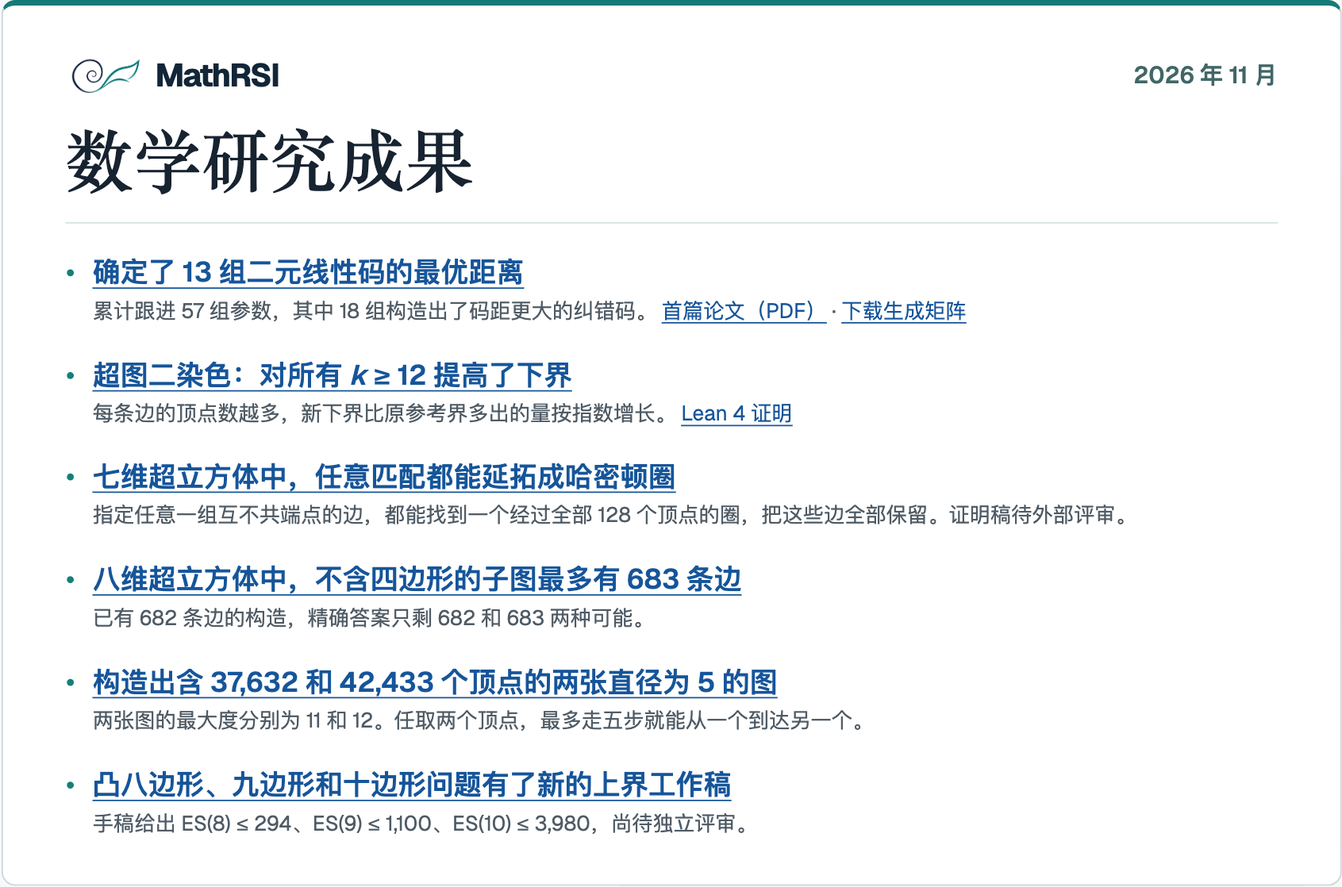
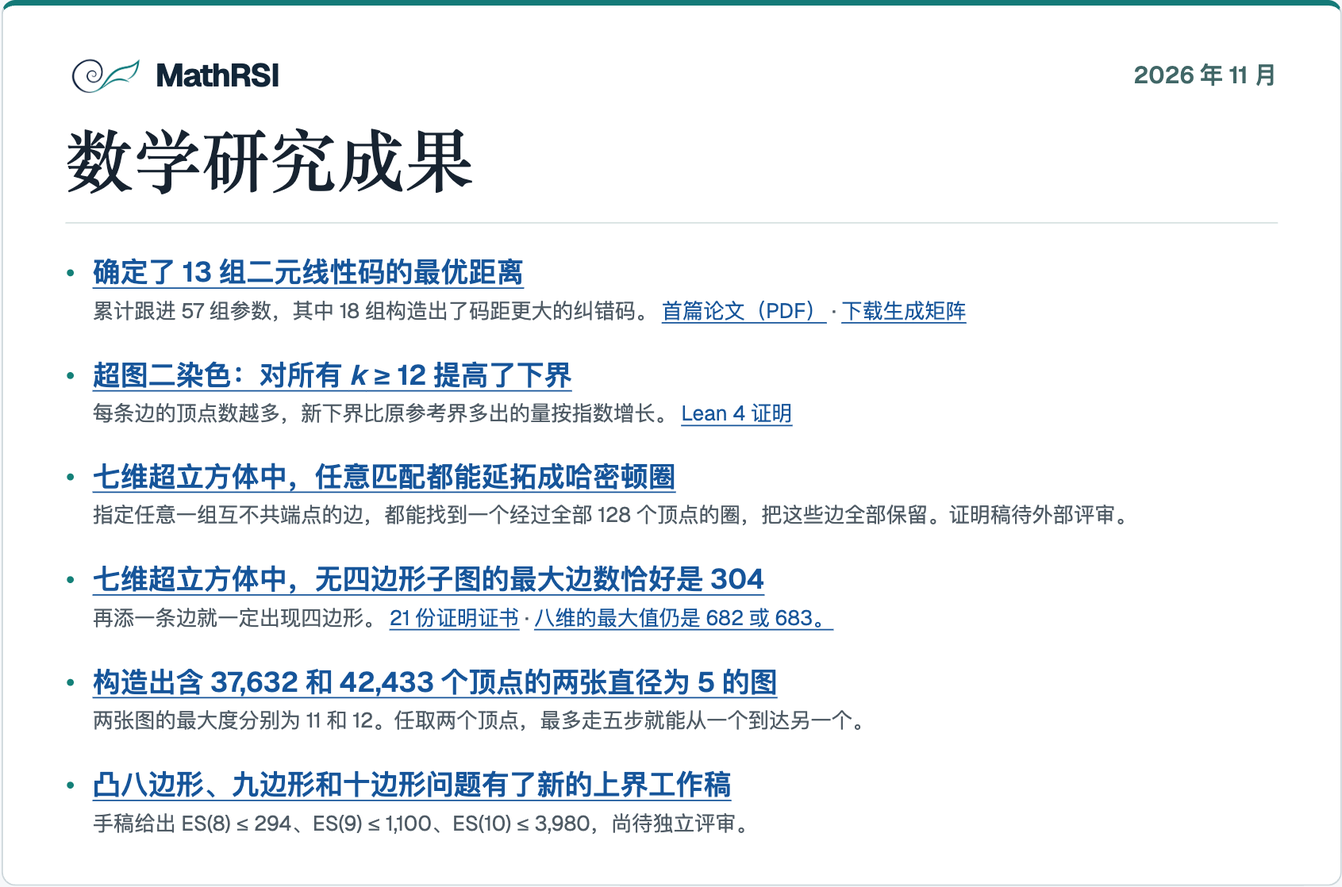
Link the seven-cube extremal preprint and public proof certificates

Changed region(s): [[0.0615, 0.6386, 0.615, 0.7299]]

diff --git a/development/homepage-redesign-20261105/site/index.html b/development/homepage-redesign-20261105/site/index.html
@@ -115,6 +115,7 @@
           <span>The working proof now extends every matching in the seven-dimensional cube to a Hamilton cycle. The Happy Ending manuscripts give ES(8) ≤ 294, ES(9) ≤ 1,100 and ES(10) ≤ 3,980.</span></li>
         <li><div class="news-meta"><a href="https://github.com/lisresearchgroup/math-rsi/releases/tag/v6">v6</a><time datetime="2026-11-20">2026-11-20</time></div>
           <span>The Q₇ matching threshold fell from 57 edges to 56. For square-free subgraphs of Q₈, the maximum number of edges was narrowed to 682 or 683.</span></li>
+        <li><div class="news-meta"><span>Preprint</span><time datetime="2026-11-20">2026-11-20</time></div><span><a href="https://arxiv.org/abs/2611.27284" lang="en" data-no-i18n>The Four-Cycle Extremal Number of the Seven-Cube</a> · <span>The exact maximum in Q₇ is 304 edges.</span></span></li>
       </ul>
       <details>
         <summary>Earlier versions (v1–v5)</summary>
@@ -202,7 +203,7 @@
         <details><summary>Scope &amp; verification</summary><p>Both D5 final graphs regenerate deterministically. D12 preserves the 42,402-vertex source and checks all 31 new vertices; D11 takes core–core distances from the H9 theorem under its stated σ/π identification and checks all 161 peripheral and new vertices. End-to-end Lean proofs and independent refereeing for these D5 graphs remain open. On the Comellas table checked 2026-11-16, (10,4) is 2,612 and (16,4) is 16,848, above our earlier constructions of 2,567 and 16,416.</p></details>
       </article>
 
-      <article class="card" style="--c:var(--e86)">
+      <article class="card" id="erdos-86" style="--c:var(--e86)">
         <div class="viz" data-viz="e86" role="img" aria-label="Four-dimensional cube with one square highlighted, above a number line showing one half, 0.59124 and 0.60318"></div>
         <p class="vcap">Q₄ with one square (C₄) · density scale</p>
         <p class="r-problem"><b>Erdős Problem 86</b><span>Square-free hypercube subgraphs</span></p>
@@ -210,7 +211,7 @@
         <div class="r-fig">
           <p class="r-kicker">Subgraphs of <span class="math" data-tex="Q_n"><span class="katex"><span class="katex-mathml"><math xmlns="http://www.w3.org/1998/Math/MathML"><semantics><mrow><msub><mi>Q</mi><mi>n</mi></msub></mrow><annotation encoding="application/x-tex">Q_n</annotation></semantics></math></span><span class="katex-html" aria-hidden="true"><span class="base"><span class="strut" style="height:0.8778em;vertical-align:-0.1944em;"></span><span class="mord"><span class="mord mathnormal">Q</span><span class="msupsub"><span class="vlist-t vlist-t2"><span class="vlist-r"><span class="vlist" style="height:0.1514em;"><span style="top:-2.55em;margin-left:0em;margin-right:0.05em;"><span class="pstrut" style="height:2.7em;"></span><span class="sizing reset-size6 size3 mtight"><span class="mord mathnormal mtight">n</span></span></span></span><span class="vlist-s"></span></span><span class="vlist-r"><span class="vlist" style="height:0.15em;"><span></span></span></span></span></span></span></span></span></span></span> without <span class="math" data-tex="C_4"><span class="katex"><span class="katex-mathml"><math xmlns="http://www.w3.org/1998/Math/MathML"><semantics><mrow><msub><mi>C</mi><mn>4</mn></msub></mrow><annotation encoding="application/x-tex">C_4</annotation></semantics></math></span><span class="katex-html" aria-hidden="true"><span class="base"><span class="strut" style="height:0.8333em;vertical-align:-0.15em;"></span><span class="mord"><span class="mord mathnormal" style="margin-right:0.07153em;">C</span><span class="msupsub"><span class="vlist-t vlist-t2"><span class="vlist-r"><span class="vlist" style="height:0.3011em;"><span style="top:-2.55em;margin-left:-0.0715em;margin-right:0.05em;"><span class="pstrut" style="height:2.7em;"></span><span class="sizing reset-size6 size3 mtight"><span class="mord mtight">4</span></span></span></span><span class="vlist-s"></span></span><span class="vlist-r"><span class="vlist" style="height:0.15em;"><span></span></span></span></span></span></span></span></span></span></span>: per-setting results</p>
           <ul class="e86-slist">
-            <li><span>Q₇ (n = 7)</span><b class="r-n">304</b><span class="e86-scope">304-edge construction verified; 304 upper bound as reported in the source package, not re-verified in this pass.</span></li>
+            <li><span>Q₇ (n = 7)</span><b class="r-n">304</b><span class="e86-scope">304 edges are possible. Every 305-edge subgraph contains a four-cycle. <a href="https://arxiv.org/abs/2611.27284">Q₇ paper on arXiv ↗</a></span></li>
             <li><span>Q₈ (n = 8)</span><b class="r-n">682–683</b><span class="e86-scope">Four 682-edge constructions + Theorem B (refereeing pending); ≤682 open.</span></li>
             <li><span>Q∞ (density)</span><b class="r-n">≤ 0.5912405943</b><span class="e86-scope">T3 proved · T4 ≤ 0.5912405942 · limit 1/2 open.</span></li>
           </ul>
@@ -218,7 +219,7 @@
         <p class="r-why"><b>Why it matters</b> Tighter ceilings in Q₇, Q₈ and arbitrary dimension Qₙ narrow how many cube edges can avoid a four-cycle.</p>
         <p class="r-how"><b>Method</b> Couple local flags, degree potentials and primal–dual coevolution on the same graph.</p>
         <div class="meta"><span class="status">Computer-assisted bounds · no Lean</span><a href="erdos-86-latest.html">Results &amp; methods ↗<span class="source-language" data-no-i18n>EN + 中文</span></a><a href="../../../plugins/hypercube-extremal/archive/source/START_HERE.html">Historical Q₄ ↗<span class="source-language" data-no-i18n>中文</span></a><button class="trace" type="button" data-case="e86">Trace in evolution ↑</button></div>
-        <details><summary>Scope &amp; verification</summary><p>Q₇: two explicit 304-edge C₄-free subgraphs verified in-repo; 304 upper bound as reported in the source package, not re-verified in this pass (21 raw .cnf/.drup traces omitted upstream). Q₈: four 682-edge constructions and C++17 13,150,453-completion replay verified; Theorem B uses 83 active cuts and 25 imported Q₆ DRAT certificates (reviewed in the same model family; independent refereeing pending), and ex(Q₈, C₄) ≤ 682 remains open. Q∞: T3 = 681653995482306581 / 1152921504606846976 ≤ 0.5912405943 and T4 = 9701859764505653085708308080340303 / 16409326186106551516455239680000000 ≤ 0.5912405942 (via a 5-line hypergeometric tower for all n ≥ 1024), both proved and rechecked in 128-bit C++20; exploratory 0.5907 is an approximate fit (residual ≈ 3.9 × 10⁻⁴), and an earlier 0.5899 claim was refuted and withdrawn.</p></details>
+        <details><summary>Scope &amp; verification</summary><p><span>The MathRSI repository checks two 304-edge constructions. The authors report checking all 21 refutations for the upper bound in the paper’s companion repository.</span> <span>Q₈: four 682-edge constructions and C++17 13,150,453-completion replay verified; Theorem B uses 83 active cuts and 25 imported Q₆ DRAT certificates (reviewed in the same model family; independent refereeing pending), and ex(Q₈, C₄) ≤ 682 remains open. Q∞: T3 = 681653995482306581 / 1152921504606846976 ≤ 0.5912405943 and T4 = 9701859764505653085708308080340303 / 16409326186106551516455239680000000 ≤ 0.5912405942 (via a 5-line hypergeometric tower for all n ≥ 1024), both proved and rechecked in 128-bit C++20; exploratory 0.5907 is an approximate fit (residual ≈ 3.9 × 10⁻⁴), and an earlier 0.5899 claim was refuted and withdrawn.</span></p></details>
       </article>
 
       <article class="card" style="--c:var(--q6)">

diff --git a/development/homepage-redesign-20261105/site/zh-CN.js b/development/homepage-redesign-20261105/site/zh-CN.js
@@ -1,5 +1,18 @@
 /* Chinese homepage copy, drafted by Gemini 4 and checked against the English source. */
 window.MATHRSI_ZH = {
+  "304 edges are possible. Every 305-edge subgraph contains a four-cycle.": "304 条边可以做到。只要有 305 条边，就一定包含一个四边形。",
+  "Q₇ paper on arXiv ↗": "Q₇ 论文 · arXiv ↗",
+  "Q₈: four 682-edge constructions and C++17 13,150,453-completion replay verified; Theorem B uses 83 active cuts and 25 imported Q₆ DRAT certificates (reviewed in the same model family; independent refereeing pending), and ex(Q₈, C₄) ≤ 682 remains open. Q∞: T3 = 681653995482306581 / 1152921504606846976 ≤ 0.5912405943 and T4 = 9701859764505653085708308080340303 / 16409326186106551516455239680000000 ≤ 0.5912405942 (via a 5-line hypergeometric tower for all n ≥ 1024), both proved and rechecked in 128-bit C++20; exploratory 0.5907 is an approximate fit (residual ≈ 3.9 × 10⁻⁴), and an earlier 0.5899 claim was refuted and withdrawn.": "Q₈：四份 682 边构造与 C++17 全部 13,150,453 个补全重放已验证；定理 B 使用 83 条活跃割与 25 份 Q₆ DRAT 证书（经同系模型审阅，待独立审稿），ex(Q₈, C₄) ≤ 682 仍开放。Q∞：T3 = 681653995482306581 / 1152921504606846976 ≤ 0.5912405943 与 T4 = 9701859764505653085708308080340303 / 16409326186106551516455239680000000 ≤ 0.5912405942（经对一切 n ≥ 1024 成立的五行超几何塔）均已证并经 128 位 C++20 复核；探索值 0.5907 为近似拟合（残差约 3.9 × 10⁻⁴），早期 0.5899 结论已反驳撤回。",
+  "The MathRSI repository checks two 304-edge constructions. The authors report checking all 21 refutations for the upper bound in the paper’s companion repository.": "MathRSI 仓库核验了两份 304 边构造。论文作者在配套仓库中记录了对上界所用全部 21 份反驳证书的核验。",
+  "Preprint": "预印本",
+  "The exact maximum in Q₇ is 304 edges.": "七维超立方体中，无四边形子图的最大边数为 304。",
+  "Erdős Problem 86 results by setting: exactly 304 edges in Q7 (arXiv:2611.27284), Q8 narrowed to 682–683, and asymptotic C4-free density lowered from 0.60318 to at most 0.5912405943 (T3) and 0.5912405942 (T4).": "Erdős 第 86 题各参数结果：Q₇ 精确为 304 条边（arXiv:2611.27284），Q₈ 为 682 至 683，渐近密度上界由 0.60318 降至 0.5912405943（T3）及 0.5912405942（T4）。",
+  "Results · Q₇ exactly 304, Q₈ 682–683 and asymptotic Q∞ ≤ 0.5912405943": "成果 · Q₇ 精确为 304，Q₈ 为 682–683，渐近密度 Q∞ ≤ 0.5912405943",
+  "exact maximum": "精确最大值",
+  "Minamoto’s construction attains 304 edges. Zhou and coauthors rule out 305 using three computational lemmas on the six-cube.": "Minamoto 的构造保留了 304 条边。论文作者用六维超立方体上的三个计算引理排除了 305 条边的可能。",
+  "arXiv preprint · 20 November 2026": "arXiv 预印本 · 2026 年 11 月 20 日",
+  "Verification code": "核验代码",
+  "21 proof certificates": "21 份证明证书",
   "Launch the mathematics workbench with Git, Python 3.10+, pipx and a signed-in agent CLI.": "准备好 Git、Python 3.10+、pipx 和已登录的 Agent 客户端，在终端启动数学工作台。",
   "Choose your problem directory and the cloned math-rsi folder in the wizard. Next time, just run mathrsi.": "在向导中分别选择课题目录和克隆的 math-rsi 文件夹。以后启动，只需输入 mathrsi。",
   "To work directly in the clone, enter": "也可以在客户端打开克隆的仓库，输入",

diff --git a/development/homepage-redesign-20261105/site/erdos-86-latest.html b/development/homepage-redesign-20261105/site/erdos-86-latest.html
@@ -17,17 +17,19 @@
 <table class="dd-setting-table e86-setting-table">
 <thead><tr><th scope="col">Setting</th><th scope="col">Bound</th><th scope="col">Verification scope</th></tr></thead>
 <tbody>
-<tr><th scope="row">Q₇ (n = 7)</th><td><b>304</b></td><td>304-edge construction verified; 304 upper bound as reported in the source package, not re-verified in this pass.</td></tr>
+<tr><th scope="row">Q₇ (n = 7)</th><td><b>304</b></td><td>304 edges are possible. Every 305-edge subgraph contains a four-cycle.</td></tr>
 <tr><th scope="row">Q₈ (n = 8)</th><td><b>682 ≤ ex(Q₈, C₄) ≤ 683</b></td><td>Four 682-edge constructions &amp; C++17 Q₄ replay verified; Theorem B reviewed in the same model family (independent refereeing pending); ex(Q₈, C₄) ≤ 682 open.</td></tr>
 <tr><th scope="row">Q∞ (asymptotic)</th><td><b>≤ 0.5912405943</b></td><td>T3 (≤ 0.5912405943) and T4 with m = 1024 degree potential (≤ 0.5912405942) proved and rechecked in 128-bit C++20. Conjecture 1/2 open.</td></tr>
 </tbody>
 </table>
 
 <div class="dd-latest-results e86-cards">
-<article>
+<article id="q7-paper">
 <h2>Q₇ · 128 vertices</h2>
 <p class="dd-latest-order">304</p>
-<p>Two explicit 304-edge C₄-free subgraphs (A.edges, B.edges) are checked directly in-repo (ex(Q₇, C₄) ≥ 304); 304 upper bound as reported in the source package, not re-verified in this pass.</p>
+<p>Minamoto’s construction attains 304 edges. Zhou and coauthors rule out 305 using three computational lemmas on the six-cube.</p>
+<p><a href="https://arxiv.org/abs/2611.27284" lang="en" data-no-i18n><cite>The Four-Cycle Extremal Number of the Seven-Cube</cite></a><br><span lang="en" data-no-i18n>Zheli Zhou, Haitong Ma, Ruofeng Yang, Tianzhi Ren, Kuan Yang and Shuai Li</span><br><span>arXiv preprint · 20 November 2026</span></p>
+<p><a href="https://github.com/zhelizhou/hypercube-c4/tree/13c4ac5b2269383d36e5fb0da303f0a5cd2d1b03/q7">Verification code</a> · <a href="https://github.com/zhelizhou/hypercube-c4/releases/tag/q7-artifacts-v0.1">21 proof certificates</a></p>
 </article>
 <article>
 <h2>Q₈ · 256 vertices</h2>

diff --git a/development/homepage-redesign-20261105/site/result-visuals.js b/development/homepage-redesign-20261105/site/result-visuals.js
@@ -132,9 +132,9 @@
 
     e86: {
       resultLabel:
-        'Erdős Problem 86 results by setting: Q7 construction 304 verified (304 upper bound source-reported), Q8 narrowed to 682–683, and asymptotic C4-free density lowered from 0.60318 to at most 0.5912405943 (T3) and 0.5912405942 (T4).',
+        'Erdős Problem 86 results by setting: exactly 304 edges in Q7 (arXiv:2611.27284), Q8 narrowed to 682–683, and asymptotic C4-free density lowered from 0.60318 to at most 0.5912405943 (T3) and 0.5912405942 (T4).',
       resultCap:
-        'Results · Q₇ 304 (≤ source), Q₈ 682–683 and asymptotic Q∞ ≤ 0.5912405943',
+        'Results · Q₇ exactly 304, Q₈ 682–683 and asymptotic Q∞ ≤ 0.5912405943',
       links: [
         { label: 'Results by setting ↗', href: 'erdos-86-latest.html', sourceLanguage: 'EN + 中文' },
         { label: 'Historical Q₄ ↗', href: '../../../plugins/hypercube-extremal/archive/source/START_HERE.html', sourceLanguage: '中文', sub: true }
@@ -159,8 +159,8 @@
 
           <rect x="22" y="36" width="102" height="68" rx="7" fill="#F8F9FB" stroke="var(--hair)"/>
           <text class="rv-sub" x="73" y="52" text-anchor="middle">Q₇ (n = 7)</text>
-          <text x="73" y="75" text-anchor="middle" font-size="17.5" font-weight="680" class="rv-accent">≥ 304</text>
-          <text class="rv-sub" x="73" y="94" text-anchor="middle">≤304 in source</text>
+          <text x="73" y="75" text-anchor="middle" font-size="17.5" font-weight="680" class="rv-accent">304</text>
+          <text class="rv-sub" x="73" y="94" text-anchor="middle">exact maximum</text>
 
           <rect x="130" y="36" width="108" height="68" rx="7" fill="#F8F9FB" stroke="var(--hair)"/>
           <text class="rv-sub" x="184" y="52" text-anchor="middle">Q₈ (n = 8)</text>

diff --git a/development/homepage-redesign-20261105/site/november-2026-zh.html b/development/homepage-redesign-20261105/site/november-2026-zh.html
@@ -26,8 +26,8 @@
 <small>每条边的顶点数越多，新下界比原参考界多出的量按指数增长。 <a href="../../../case-studies/property-b/readers/PROPERTY_B_GENERAL_LEAN.html">Lean 4 证明</a></small></li>
 <li><a href="q7.html">七维超立方体中，任意匹配都能延拓成哈密顿圈</a>
 <small>指定任意一组互不共端点的边，都能找到一个经过全部 128 个顶点的圈，把这些边全部保留。证明稿待外部评审。</small></li>
-<li><a href="erdos-86-latest.html">八维超立方体中，不含四边形的子图最多有 683 条边</a>
-<small>已有 682 条边的构造，精确答案只剩 682 和 683 两种可能。</small></li>
+<li><a href="https://arxiv.org/abs/2611.27284">七维超立方体中，无四边形子图的最大边数恰好是 304</a>
+<small>再添一条边就一定出现四边形。 <a href="https://github.com/zhelizhou/hypercube-c4/releases/tag/q7-artifacts-v0.1">21 份证明证书</a> · <a href="erdos-86-latest.html">八维的最大值仍是 682 或 683。</a></small></li>
 <li><a href="dd-latest.html">构造出含 37,632 和 42,433 个顶点的两张直径为 5 的图</a>
 <small>两张图的最大度分别为 11 和 12。任取两个顶点，最多走五步就能从一个到达另一个。</small></li>
 <li><a href="happy-ending-latest.html">凸八边形、九边形和十边形问题有了新的上界工作稿</a>

diff --git a/development/homepage-redesign-20261105/site/november-2026.html b/development/homepage-redesign-20261105/site/november-2026.html
@@ -26,8 +26,8 @@
 <small>The additive gain grows exponentially with the edge size. <a href="../../../case-studies/property-b/readers/PROPERTY_B_GENERAL_LEAN.html">Lean 4 proof</a></small></li>
 <li><a href="q7.html">Every matching in the 7-cube extends to a Hamilton cycle</a>
 <small>A cycle through all 128 vertices keeps every prescribed edge. Author proof awaiting external review.</small></li>
-<li><a href="erdos-86-latest.html">A square-free subgraph of the 8-cube has at most 683 edges</a>
-<small>A 682-edge construction leaves just two possible values for the maximum.</small></li>
+<li><a href="https://arxiv.org/abs/2611.27284">A square-free subgraph of the 7-cube has at most 304 edges</a>
+<small>Every 305-edge subgraph contains a four-cycle. <a href="https://github.com/zhelizhou/hypercube-c4/releases/tag/q7-artifacts-v0.1">21 proof certificates</a> · <a href="erdos-86-latest.html">In the 8-cube the maximum is 682 or 683.</a></small></li>
 <li><a href="dd-latest.html">Diameter-five graphs on 37,632 and 42,433 vertices</a>
 <small>Any pair of vertices is at most five steps apart, with maximum degrees 11 and 12, respectively.</small></li>
 <li><a href="happy-ending-latest.html">New working upper bounds for convex 8-, 9- and 10-gons</a>

diff --git a/case-studies/erdos-86/README.md b/case-studies/erdos-86/README.md
@@ -8,7 +8,7 @@ Erdős Problem 86 asks for the maximum number of edges $\mathrm{ex}(Q_n, C_4)$ i
 
 | Setting | Bound | Verification and archive scope |
 | --- | --- | --- |
-| **$Q_7$ ($n = 7$)** | **`304`** | **304-edge construction verified; 304 upper bound as reported in the source package, not re-verified in this pass.** Two explicit 128-vertex, 304-edge $C_4$-free subgraphs (`A.edges`, `B.edges`) and the 2-hole orbit script `six_profiles_independent_audit.py` are verified in-repo ($\mathrm{ex}(Q_7, C_4) \ge 304$; constructions alone do not prove an upper bound). The upstream reduction manuscript (`ASTRA_主证明合订.md`) and certificate manifest are preserved in [`archive/q7-304/`](../../plugins/hypercube-extremal/archive/q7-304/README.md), while the 21 raw `.cnf`/`.drup` traces were already omitted in the upstream 2026-10-31 compilation. |
+| **$Q_7$ ($n = 7$)** | **`304`** | [Zhou et al., arXiv:2611.27284](https://arxiv.org/abs/2611.27284) exclude 305 edges, matching Minamoto’s 304-edge construction. The [companion release](https://github.com/zhelizhou/hypercube-c4/releases/tag/q7-artifacts-v0.1) supplies all 21 refutations. Two explicit 128-vertex, 304-edge $C_4$-free subgraphs (`A.edges`, `B.edges`) and the 2-hole orbit script `six_profiles_independent_audit.py` are verified in-repo ($\mathrm{ex}(Q_7, C_4) \ge 304$; constructions alone do not prove an upper bound). The upstream reduction manuscript (`ASTRA_主证明合订.md`) and certificate manifest are preserved in [`archive/q7-304/`](../../plugins/hypercube-extremal/archive/q7-304/README.md), while the 21 raw `.cnf`/`.drup` traces were already omitted in the upstream 2026-10-31 compilation. |
 | **$Q_8$ ($n = 8$)** | **`682 ≤ ex(Q₈, C₄) ≤ 683`** | Four explicit 682-edge $C_4$-free subgraphs (`seed1..4.edges`) are verified in-repo ($\mathrm{ex}(Q_8, C_4) \ge 682$). Theorem B rules out 684 edges via a same-subgraph 3-measure pullback over 83 active inequalities and 25 $Q_6$ subcube imports (`PASS · same-family · provisional` whole-proof audit; exact rational safety margin `782808475930428709 / 4209067950080000000000 > 0` and C++17 complete enumeration of all `13,150,453` marked $Q_4$ completions verified in-repo in [`archive/q8-683/`](../../plugins/hypercube-extremal/archive/q8-683/README.md)). Primary goal $\mathrm{ex}(Q_8, C_4) \le 682$ remains **OPEN**. |
 | **$Q_\infty$ (asymptotic)** | **`T3 ≤ 0.5912405943`**<br>**`T4 ≤ 0.5912405942`** | Unconditional bounds improving the `v3` $Q_4$ Gram bound (`< 0.59155154`) and the `0.60318` reference: **T3** $= 681653995482306581 / 1152921504606846976 \approx 0.5912405942282728\ldots \le 0.5912405943$ ($Q_4$ flag algebra + 35 triangle-free COP cuts + 29 cubic terms) and **T4** $= 9701859764505653085708308080340303 / 16409326186106551516455239680000000 \approx 0.5912405941884453\ldots \le 0.5912405942$ (adding the $m=1024$ generalized hypergeometric degree potential). Both C++20 128-bit verifiers recompile and pass over all `3,212,821` $Q_4$ orbits in [`archive/asymptotic-05912/`](../../plugins/hypercube-extremal/archive/asymptotic-05912/README.md). Conjecture $\pi_\square(C_4) = 1/2$ remains **OPEN**. |
 

diff --git a/README.md b/README.md
@@ -72,7 +72,7 @@ Research across six domains supplies results and reusable methods. [Public homep
 - **Property B:** bounds for $k=5,\ldots,12$ and exponentially growing additive gains for every $k\ge12$. [Results & proof scope](case-studies/property-b/README.md)
 - **Error-correcting codes.** Download generators for 18 improved lower bounds. Of 37 supported upper-bound updates, 13 meet the distance of a known code and settle the optimum. Two further entries await final acceptance in the source project. [Codes and matrices](https://lisresearchgroup.github.io/math-rsi/ecc-intervals.html#lower) · [Upper bounds and proofs](https://lisresearchgroup.github.io/math-rsi/ecc-intervals.html#upper)
 - **Degree–diameter:** our constructions reach 2,567 vertices at $(10,4)$, 37,632 at $(11,5)$, 42,433 at $(12,5)$ and 16,416 at $(16,4)$. [Constructions, dated comparisons & scope](case-studies/degree-diameter/README.md)
-- **Erdős Problem 86:** $Q_7$ at $304$ (304-edge construction verified; 304 upper bound as reported in the source package, not re-verified in this pass), $682\le\mathrm{ex}(Q_8,C_4)\le683$, and asymptotic density improved from $0.60318$ to $\le0.5912405943$ (`T3`) / $\le0.5912405942$ (`T4`). [Results & verification scope](case-studies/erdos-86/README.md)
+- **Erdős Problem 86:** a square-free subgraph of $Q_7$ has [at most 304 edges, and the bound is attained](https://arxiv.org/abs/2611.27284), $682\le\mathrm{ex}(Q_8,C_4)\le683$, and asymptotic density improved from $0.60318$ to $\le0.5912405943$ (`T3`) / $\le0.5912405942$ (`T4`). [Results & verification scope](case-studies/erdos-86/README.md)
 - **Ruskey–Savage:** a complete author working proof covers every matching in $Q_7$, including empty and perfect matchings; the universal $Q_6$ result is retained. External peer review pending; no Lean. [Proof, local checks & release history](case-studies/ruskey-savage-q7/README.md)
 - **Happy Ending & $N(m,r,s)$:** new same-input sector-deficit manuscripts give working planar corollaries $\mathrm{ES}(7)\le77$, $\mathrm{ES}(8)\le294$, $\mathrm{ES}(9)\le1100$ and $\mathrm{ES}(10)\le3980$; independent mathematical review remains incomplete. Earlier replayable finite certificates retain their separate scope and provenance. [Current results, evidence & replay](plugins/happy-ending/archive/nmrs-20261120/HANDOFF.md) · [Case guide](case-studies/happy-ending/README.md)
 

diff --git a/README.zh-CN.md b/README.zh-CN.md
@@ -71,7 +71,7 @@ mathrsi
 - **Property B：** $k=5,\ldots,12$ 的具体下界，以及所有 $k\ge12$ 随参数指数增长的加性增益。[成果与证明范围](case-studies/property-b/README.md)
 - **纠错码。** 18 组参数的生成矩阵可下载。在 37 项有证据支持的上界改进中，13 项与已有码的距离相等，确定了最优值。另有两项等待原项目最终验收。 [查看构造与矩阵](https://lisresearchgroup.github.io/math-rsi/ecc-intervals.html#lower) · [查看上界与证明](https://lisresearchgroup.github.io/math-rsi/ecc-intervals.html#upper)
 - **Degree–Diameter：** 四组展示参数的构造： $(10,4)$ 为 2,567 点； $(11,5)$ 为 37,632 点； $(12,5)$ 为 42,433 点； $(16,4)$ 为 16,416 点。[构造、日期比较与核验范围](case-studies/degree-diameter/README.zh-CN.md)
-- **Erdős 第 86 题：** $Q_7$ 为 $304$（304 边构造已验证；304 上界按原包报告，本次未复验），$682\le\mathrm{ex}(Q_8,C_4)\le683$，渐近密度上界从 $0.60318$ 推进至 $\le0.5912405943$（`T3`）／$\le0.5912405942$（`T4`）。[结果与核验范围](case-studies/erdos-86/README.md)
+- **Erdős 第 86 题：** 七维超立方体的无四边形子图最多有 [304 条边](https://arxiv.org/abs/2611.27284)，$682\le\mathrm{ex}(Q_8,C_4)\le683$，渐近密度上界从 $0.60318$ 推进至 $\le0.5912405943$（`T3`）／$\le0.5912405942$（`T4`）。[结果与核验范围](case-studies/erdos-86/README.md)
 - **Ruskey–Savage：** 完整作者工作证明覆盖 $Q_7$ 的任意匹配（包括空匹配与完美匹配），保留 $Q_6$ 全称结果；待外部同行评议，无 Lean。[证明、局部复算与版本历史](case-studies/ruskey-savage-q7/README.md)
 - **Happy Ending 与 $N(m,r,s)$：** 新同输入扇区缺额工作稿给出平面工作推论 $\mathrm{ES}(7)\le77$、$\mathrm{ES}(8)\le294$、$\mathrm{ES}(9)\le1100$、$\mathrm{ES}(10)\le3980$；独立数学审阅尚未完成。先前可重放的有限证书保留各自范围与来源。[现值、证据与复现](plugins/happy-ending/archive/nmrs-20261120/HANDOFF.md) · [案例导读](case-studies/happy-ending/README.md)
 

diff --git a/case-studies/README.md b/case-studies/README.md
@@ -39,7 +39,7 @@ On the Comellas table checked 2026-11-16, (10,4) is 2,612 and (16,4) is 16,848, 
 ## Erdős Problem 86
 
 **Finite and asymptotic $C_4$-free hypercube bounds:**
-- **$Q_7$ ($n = 7$):** **`304`** — **304-edge construction verified; 304 upper bound as reported in the source package, not re-verified in this pass** (two explicit 304-edge $C_4$-free subgraphs checked in-repo; 21 raw `.cnf`/`.drup` traces were omitted in the upstream 2026-10-31 compilation).
+- **$Q_7$ ($n = 7$):** **`304`** — **[Zhou et al. rule out 305 edges](https://arxiv.org/abs/2611.27284), matching Minamoto’s 304-edge construction** (two explicit 304-edge $C_4$-free subgraphs checked in-repo; 21 raw `.cnf`/`.drup` traces were omitted in the upstream 2026-10-31 compilation).
 - **$Q_8$ ($n = 8$):** **`682 ≤ ex(Q₈, C₄) ≤ 683`** — four 682-edge constructions verified in-repo; Theorem B rules out 684 edges via a same-subgraph 3-measure pullback over 83 active cuts and 25 imported $Q_6$ DRAT certificates (checked computationally and reviewed in the same model family; independent refereeing is pending, and $\mathrm{ex}(Q_8, C_4) \le 682$ remains open).
 - **$Q_\infty$ (asymptotic):** **T3** $\le 681653995482306581 / 1152921504606846976 \le 0.5912405943$ and **T4** $\le 9701859764505653085708308080340303 / 16409326186106551516455239680000000 \le 0.5912405942$ ($m=1024$ degree potential via a 5-line hypergeometric tower), both proved and rechecked in 128-bit C++20, improving the v3 $Q_4$ bound ($< 0.59155154$) and the `0.60318` reference. Exploratory `0.5907` is an approximate fit (residual $\approx 3.9\times 10^{-4}$), an earlier `0.5899` claim was refuted and withdrawn, and $\pi_\square(C_4) = 1/2$ remains open.
 
